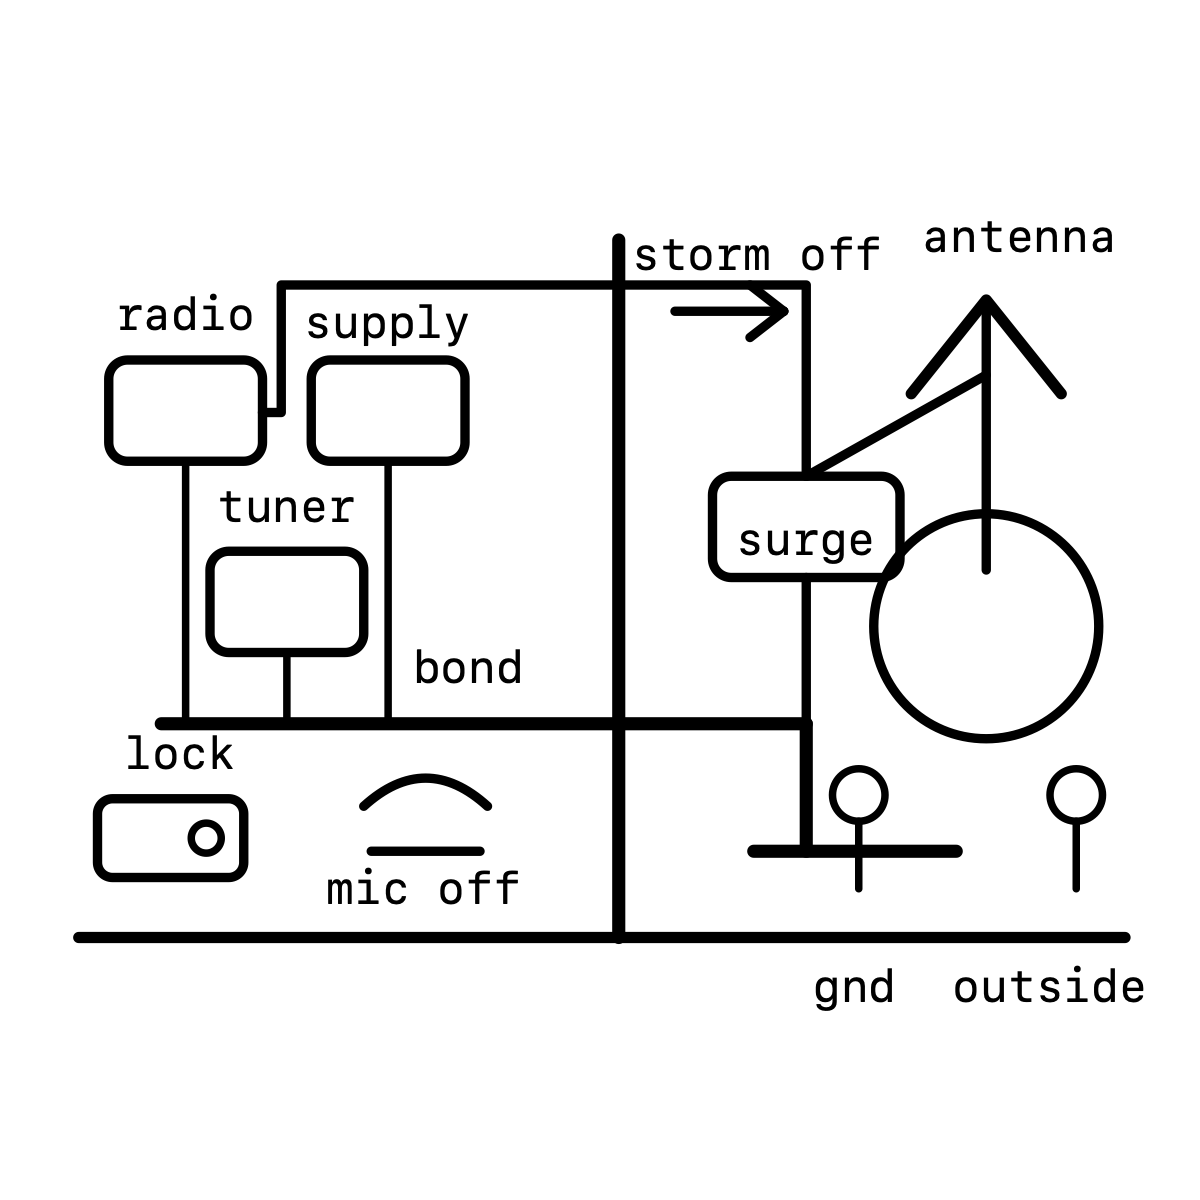
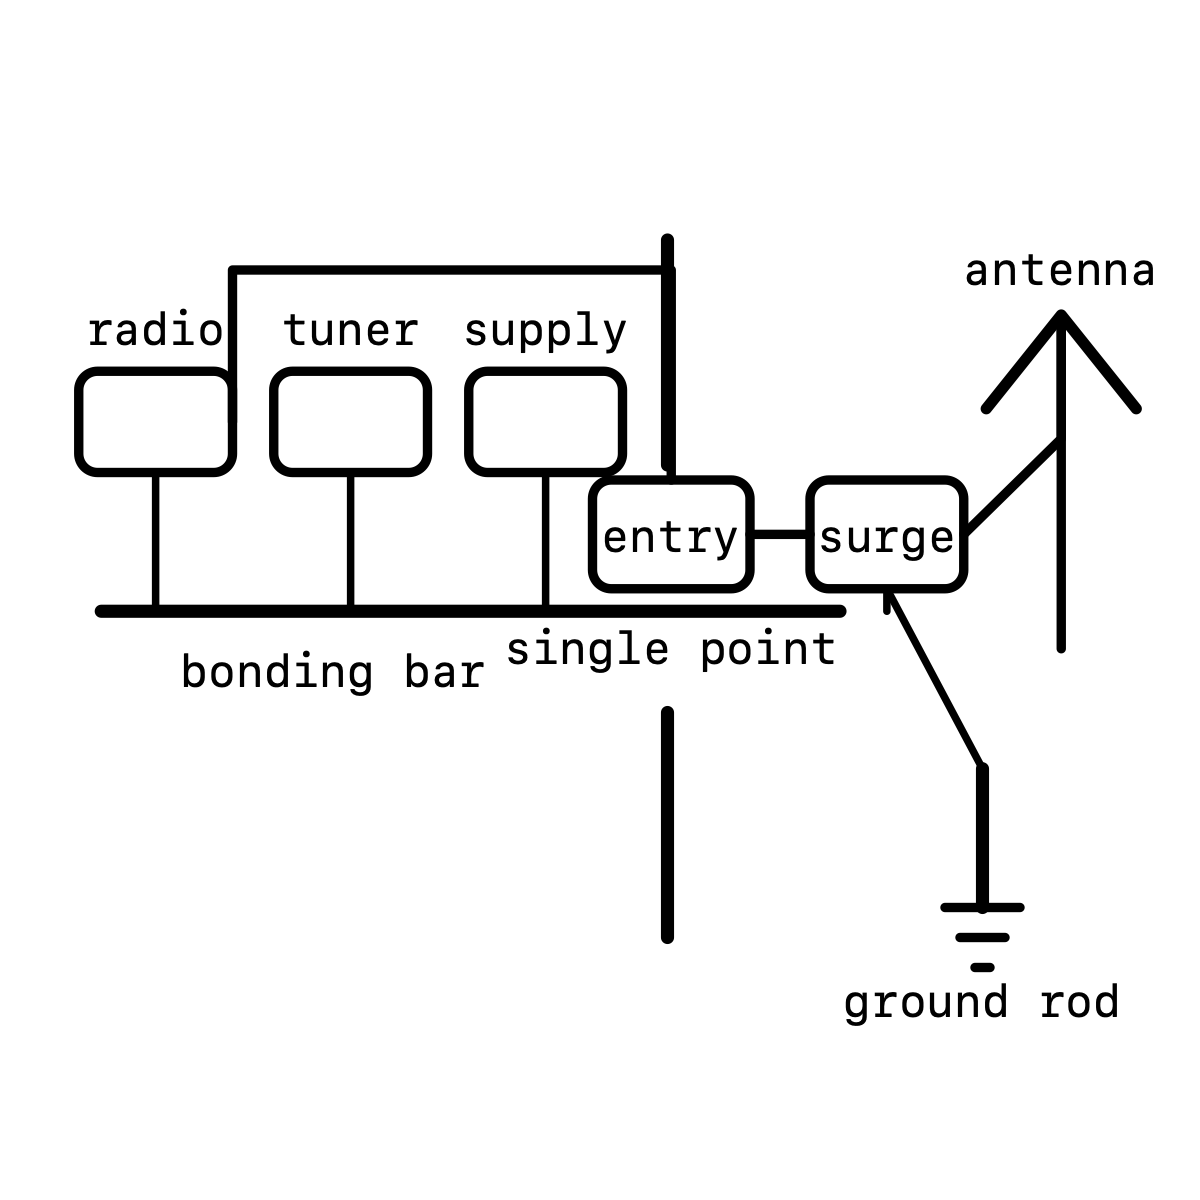
task-38.3: simplify grounding and yagi figures

Changed region(s): [[0.0617, 0.185, 0.9558, 0.8633], [0.6783, 0.185, 0.74, 0.2158], [0.925, 0.3083, 0.9558, 0.3392]]

diff --git a/content/lessons/m3-station-practice-safety/l-003-08-access-grounding-lightning-rf-safety.md b/content/lessons/m3-station-practice-safety/l-003-08-access-grounding-lightning-rf-safety.md
@@ -79,11 +79,11 @@ A driven earth electrode is often copper-clad steel. The steel provides strength
 RF grounding has an extra complication. A long wire that looks like a ground at DC can have high impedance at radio frequencies. A third-floor wire down a building may not cure RF burns at the desk. The fix may involve antenna balance, common-mode choking, a better bonding layout, or moving the antenna.
 
 ::figure grounding-lightning-rf-safety
-Alt text: A station safety layout shows locked power control, single-point bonding, outside surge protection, and RF separation from people.
+Alt text: A left-to-right station safety layout shows indoor equipment bonded to a bar, a single-point entry, a surge arrestor, a ground rod, and an outside antenna mast.
 Text equivalent:
-- Radio, supply, and tuner connect to one bond that continues to the gnd label.
-- Coax runs from radio through the surge area to the antenna, with a storm off arrow.
-- The drawing also labels lock, mic off, and outside.
+- Radio, tuner, and supply boxes bond down to a labelled bonding bar.
+- Coax runs to an entry box labelled single point, then to a surge box and the antenna mast.
+- The surge box bonds to the bonding bar and to a labelled ground rod outside.
 ::
 
 

diff --git a/content/lessons/m3-station-practice-safety/l-003-04-antennas-and-receiver-specs.md b/content/lessons/m3-station-practice-safety/l-003-04-antennas-and-receiver-specs.md
@@ -51,10 +51,10 @@ The boom is the mechanical support. The driven element is where the feedline att
 The parasitic elements are not directly fed. Their length and placement shape the pattern.
 
 ::figure yagi-receiver-specs
-Alt text: A labelled Yagi antenna appears beside a receiver display and filter choices, with an image-frequency marker shown above the desired signal.
+Alt text: A labelled Yagi antenna appears beside a receiver display with wide, medium, and narrow passband choices, plus an image-frequency marker.
 Text equivalent:
-- Yagi labels are reflector, driven, director, boom, and feedline.
-- The receiver display has filter labels W, M, and N.
+- Yagi labels are reflector, driven, director, boom, and feedline from the driven element.
+- The receiver display shows three passband shapes labelled W, M, and N under their own curves.
 - The frequency line labels desired, LO, image, and two IF spacings.
 ::
 
